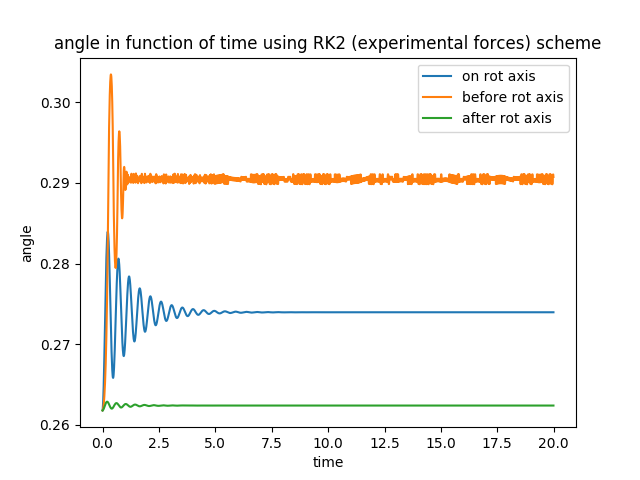
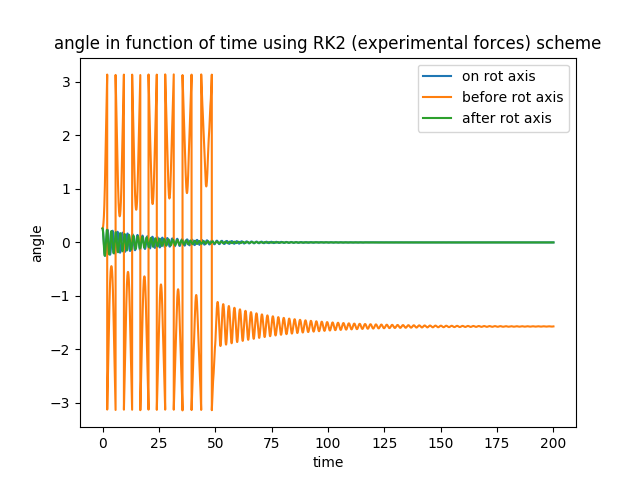
non convergence problem for experimental formula fixed

diff --git a/mainWingSimulator.py b/mainWingSimulator.py
@@ -53,6 +53,7 @@ distanceMWB                = 0.11
 distanceMWA                = -0.02
 MWMass                     = 11
 
+
 #Servo wing
 SWChord                   = 0.3
 SWSpan                    = 0.8
@@ -80,7 +81,7 @@ CoeffDragMW               = 2*CoeffDragLamMW*(1+thickOnChordMW)+thickOnChordMW**
 
 
 
-momentOfInertiaStructureOnMast  = SWMass*distanceTail**2+SWMass*distanceCanard**2+MWMass*0.2**2
+momentOfInertiaStructureOnMast  = SWMass*distanceTail**2+MWMass*0.2**2
 
 
 
@@ -112,6 +113,8 @@ def angleOfLiftForceMW(state,trueWindAngle):
 	else :
 		return(wrapTo2pi(-alpha-(np.pi/2)))
 
+
+
 def aerodynamicForcesCFD(alpha,tailAngle):
 	liftForceMW = 200.162*alpha # experimental formula
 
@@ -126,15 +129,21 @@ def aerodynamicForcesCFD(alpha,tailAngle):
 
 def aerodynamicForcesTheory(alpha,tailAngle):
 	liftForceMW = constPartWindForceMW*MWDesignedLiftCoefficient*alpha*5.91
+	#print (constPartWindForceMW*MWDesignedLiftCoefficient*5.91)
 
-		
+
 	liftForceSW = constPartWindForceSW*SWDesignedLiftCoefficient*wrapTo2pi(dontKnowHowToName*alpha-tailAngle)*5.91
-
+	#print(5.91*constPartWindForceSW*SWDesignedLiftCoefficient, "wr", wrapTo2pi(dontKnowHowToName*alpha))
 	dragForceMW = 2
 
 	dragForceSW = 2
 
 	return (liftForceMW, liftForceSW, dragForceMW, dragForceSW)
+
+
+
+
+
 
 def equationθpp(state, trueWindAngle,positionAerodynamicCenter ='A', aerodynamicForces = 'T' ):
 	alpha      = angleOfAttackMW(state[0][0],trueWindAngle)
@@ -148,7 +157,7 @@ def equationθpp(state, trueWindAngle,positionAerodynamicCenter ='A', aerodynami
 #	MWRelatedPartDrag = 0
 #	Uncomment the following line to add drag to the similation
 #	tailRelatedPartDrag     = dragTail(alpha,tailAngle)
-	tailRelatedPart         = momentOfInertiaStructureOnMast*(tailRelatedPartLift*np.cos(alpha)-tailRelatedPartDrag*np.sin(alpha))
+	tailRelatedPart         = (tailRelatedPartLift*np.cos(alpha)-tailRelatedPartDrag*np.sin(alpha))/momentOfInertiaStructureOnMast
 	if positionAerodynamicCenter == 'O':
 		return(tailRelatedPart)
 	elif positionAerodynamicCenter == 'B':
@@ -156,14 +165,14 @@ def equationθpp(state, trueWindAngle,positionAerodynamicCenter ='A', aerodynami
 		MWRelatedPartDrag   = 0
 #		Uncomment the following line to add drag to the similation
 #		MWRelatedPartDrag = distanceMWB*CoeffDragServo
-		MWRelatedPart       = momentOfInertiaStructureOnMast*(MWRelatedPartLift*np.cos(alpha)-MWRelatedPartDrag*np.sin(alpha))
+		MWRelatedPart       = (MWRelatedPartLift*np.cos(alpha)-MWRelatedPartDrag*np.sin(alpha))/momentOfInertiaStructureOnMast
 		return(tailRelatedPart+MWRelatedPart)
 	elif positionAerodynamicCenter == 'A':
 		MWRelatedPartLift   = distanceMWA*liftForceMW
 		MWRelatedPartDrag   = 0
 #		Uncomment the following line to add drag to the similation
 #		MWRelatedPartDrag = distanceMWA*CoeffDragServo
-		MWRelatedPart       = momentOfInertiaStructureOnMast*(MWRelatedPartLift*np.cos(alpha)-MWRelatedPartDrag*np.sin(alpha))
+		MWRelatedPart       = (MWRelatedPartLift*np.cos(alpha)-MWRelatedPartDrag*np.sin(alpha))/momentOfInertiaStructureOnMast
 		return(tailRelatedPart+MWRelatedPart)
 
 
@@ -263,8 +272,8 @@ if __name__ == '__main__':
 
 
 	# ===== Equilibrium position in function of the position of the aerodynamic center (Theory forces) =====
-	"""
 	
+	"""
 	plt.figure()
 	timesRK2,statesRK2O = rk2Scheme(wingState,0,200, 0.01, evolution, trueWindAngle,'O')
 	drawWingSailAngle(timesRK2,statesRK2O[0,:],'on rot axis','RK2')
@@ -283,28 +292,27 @@ if __name__ == '__main__':
 	
 	"""
 	plt.figure()
-	timesRK2,statesRK2O = rk2Scheme(wingState,0,20, 0.01, evolution, trueWindAngle,'O','CFD')
+	timesRK2,statesRK2O = rk2Scheme(wingState,0,200, 0.01, evolution, trueWindAngle,'O','CFD')
 	drawWingSailAngle(timesRK2,statesRK2O[0,:],'on rot axis','RK2')
 
-	timesRK2,statesRK2B = rk2Scheme(wingState,0,20, 0.01, evolution, trueWindAngle,'B','CFD')
+	timesRK2,statesRK2B = rk2Scheme(wingState,0,200, 0.01, evolution, trueWindAngle,'B','CFD')
 	drawWingSailAngle(timesRK2,statesRK2B[0,:],'before rot axis','RK2')
-
-	timesRK2,statesRK2A = rk2Scheme(wingState,0,20, 0.01, evolution, trueWindAngle,'A','CFD')
+	
+	timesRK2,statesRK2A = rk2Scheme(wingState,0,200, 0.01, evolution, trueWindAngle,'A','CFD')
 	drawWingSailAngle(timesRK2,statesRK2A[0,:],'after rot axis','RK2 (experimental forces)')
 	plt.legend()
 	plt.savefig('Simulation_pics/Comparison position aerodynamic center for experimental aerodynamic forces.png')
 	"""
-
 	# ===== Equilibrium position in function of the forces (aerodynamic center behind the mast)
-	"""
+	
 	plt.figure()
-	timesRK2,statesRK2A = rk2Scheme(wingState,0,20, 0.01, evolution, trueWindAngle,'A','CFD')
+	timesRK2,statesRK2A = rk2Scheme(wingState,0,200, 0.01, evolution, trueWindAngle,'A','CFD')
 	drawWingSailAngle(timesRK2,statesRK2A[0,:],'experimental forces','RK2')
 	timesRK2,statesRK2A = rk2Scheme(wingState,0,200, 0.01, evolution, trueWindAngle)
 	drawWingSailAngle(timesRK2,statesRK2A[0,:],'theoretical forces','RK2')
 	plt.legend()
 	plt.savefig('Simulation_pics/Comparison type of forces aerodynamic center behind the mast.png')
-	"""
+	
 	
 
 	# ===== Equilibrium position for different Start angles =====

diff --git a/integrationSchemes.py b/integrationSchemes.py
@@ -53,7 +53,7 @@ def rk2Scheme(state, start, stop, stepSize, evolutionFunction,trueWindAngle=0,po
 
 def evolution(X,t,trueWindAngle=0,positionAerodynamicCenter='A',aerodynamicForces='T'):
 	k = 0
-	g = 9.81
+	g = 60
 	l = 1
 	Xdot = [0]*2
 	Xdot[0] = X[1]
@@ -69,7 +69,7 @@ def evolution(X,t,trueWindAngle=0,positionAerodynamicCenter='A',aerodynamicForce
 if __name__=='__main__':
 	state = np.array([[0.3],[0]])
 #	times,stateListE   = eulerScheme(state,0,50,0.01,evolution)
-	times,stateListRK2 = rk2Scheme(state,0,50,0.01,evolution)
+	times,stateListRK2 = rk2Scheme(state,0,100,0.01,evolution)
 	plt.figure()
 #	plt.plot(times,stateListE[0,:],'b')
 	plt.plot(times,stateListRK2[0,:],'g')
